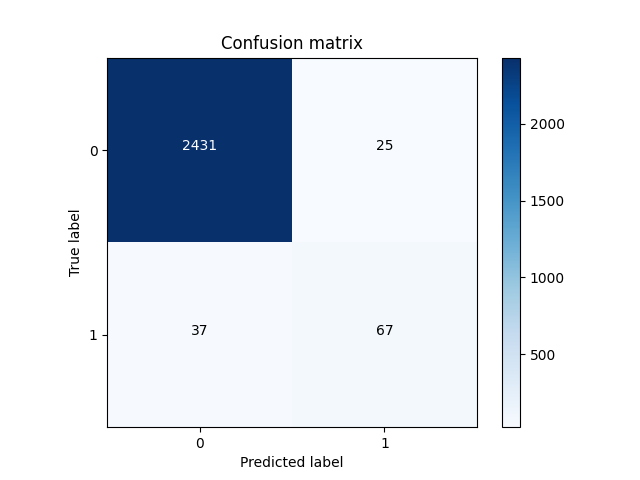
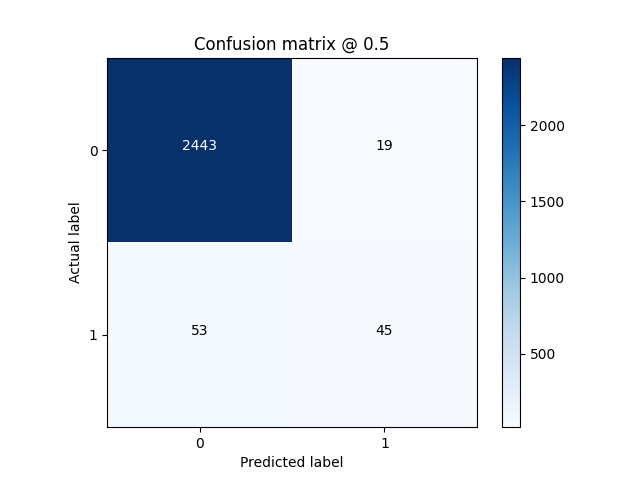
Update model and README.md

diff --git a/api/model/train.py b/api/model/train.py
@@ -8,7 +8,6 @@ import tensorflow as tf
 from keras import Sequential, metrics
 from keras.layers import StringLookup, Dense, Dropout, TextVectorization
 from keras.callbacks import EarlyStopping, History
-from keras.optimizers import Adam
 from sklearn.metrics import multilabel_confusion_matrix
 from typing import Dict
 from .preprocesser import preprocess_data
@@ -21,27 +20,26 @@ METRICS = [
     metrics.FalseNegatives(), 
     metrics.BinaryAccuracy(),
     metrics.Precision(),
-    metrics.Recall(),
+    metrics.Recall()
 ]
 
 def get_model(lookup_layer: StringLookup) -> Sequential:
     # feedforward neural network
     model = Sequential([
-        Dense(150, activation="relu"),
-        Dropout(0.2),
-        Dense(150, activation="relu"),
-        Dropout(0.2),
-        Dense(150, activation="relu"),
-        Dropout(0.2),
+        Dense(100, activation="relu"),
+        Dropout(0.3),
+        Dense(100, activation="relu"),
+        Dropout(0.3),
+        Dense(100, activation="relu"),
+        Dropout(0.3),
         Dense(lookup_layer.vocabulary_size(), activation="sigmoid")
     ])
-    optimizer = Adam(learning_rate=0.001)
-    model.compile(loss="binary_crossentropy", optimizer=optimizer, metrics=METRICS)
+    model.compile(loss="binary_crossentropy", optimizer="adam", metrics=METRICS)
     return model
 
 def fit_model(model: Sequential, class_weights: Dict[int, float], train_dataset: tf.data.Dataset, validation_dataset: tf.data.Dataset) -> History:
     # implement early stopping to reduce overfitting
-    early_stop = EarlyStopping(monitor="loss", patience=5)
+    early_stop = EarlyStopping(monitor="loss", patience=3)
 
     # set class weights to handle class imbalance
     history = model.fit(train_dataset, validation_data=validation_dataset, epochs=Constants.EPOCHS,
@@ -67,40 +65,44 @@ def predict(model: Sequential, dataset: tf.data.Dataset) -> np.ndarray:
     predicted_probailities = (predicted_probailities >= Constants.PREDICTION_THRESHOLD).astype(int)
     return predicted_probailities
 
+def plot_metrics(history: History) -> None:
+    if not os.path.exists("plots"):
+        os.mkdir("plots")
+    
+    PLOT_METRICS = ["binary_accuracy", "precision", "recall", "loss"]
+    for metric in PLOT_METRICS:
+        name = metric.replace("_", " ").capitalize()
+        plt.figure()
+        plt.plot(history.epoch, history.history[metric], label="Training")
+        plt.plot(history.epoch, history.history["val_" + metric], label="Validation")
+        plt.xlabel("Epoch")
+        plt.ylabel(name)
+        plt.title(f"Training and Validation {name}")
+        plt.legend()
+        plt.savefig(f"plots/training_and_validation_{metric}.png")
+        plt.show()
+
 def plot_confusion_matrix(actual_probailities: np.ndarray, predicted_probailities: np.ndarray) -> None:
     # compute confusion matrix for each class seperately, sum up, and plot
     confusion_matrix = multilabel_confusion_matrix(actual_probailities, predicted_probailities)
     confusion_matrix = np.sum(confusion_matrix, axis=0)
 
+    plt.figure()
     plt.imshow(confusion_matrix, cmap=plt.cm.Blues, interpolation="nearest")
     plt.colorbar()
     plt.xlabel("Predicted label")
-    plt.ylabel("True label")
+    plt.ylabel("Actual label")
     plt.xticks([0, 1])
     plt.yticks([0, 1])
     for i in range(2):
         for j in range(2):
             color = "white" if confusion_matrix[i, j] > confusion_matrix.max() / 2 else "black"
             plt.text(j, i, format(confusion_matrix[i, j]), horizontalalignment="center", color=color)
-    plt.title("Confusion matrix")
+    plt.title(f"Confusion matrix @ {Constants.PREDICTION_THRESHOLD}")
 
     if not os.path.exists("plots"):
         os.mkdir("plots")
     plt.savefig(f"plots/confusion_matrix.png")
-    plt.show()
-
-def plot_history(history: History, metric: str) -> None:
-    plt.plot(history.history[metric], label=metric)
-    plt.plot(history.history["val_" + metric], label="val_" + metric)
-    plt.xlabel("Epochs")
-    plt.ylabel(metric)
-    plt.title(f"Train and Validation {metric} Over Epochs", fontsize=14)
-    plt.legend()
-    plt.grid()
-
-    if not os.path.exists("plots"):
-        os.mkdir("plots")
-    plt.savefig(f"plots/train_validation_{metric}_over_epochs.png")
     plt.show()
 
 if __name__ == "__main__":
@@ -113,9 +115,8 @@ if __name__ == "__main__":
     model = get_model(lookup_layer)
     history = fit_model(model, class_weights, datasets["train"], datasets["validation"])
     save_model(model, text_vectorizer, lookup_layer)
-    evaluate_model(model, datasets["test"])
 
+    evaluate_model(model, datasets["test"])
     predicted_probailities = predict(model, test_text)
-    plot_history(history, "loss")
-    plot_history(history, "binary_accuracy")
+    plot_metrics(history)
     plot_confusion_matrix(test_labels, predicted_probailities)

diff --git a/api/model/preprocesser.py b/api/model/preprocesser.py
@@ -1,25 +1,34 @@
 import re
+import nltk
 import numpy as np
 import pandas as pd
 import tensorflow as tf
 from keras.layers import StringLookup, TextVectorization
 from sklearn.model_selection import train_test_split
 from sklearn.utils import class_weight
+from nltk.corpus import stopwords
 from ast import literal_eval
 from typing import Tuple, Dict
 from .constants import Constants
 
 AUTO = tf.data.AUTOTUNE
+nltk.download("stopwords")
+STOP_WORDS = set(stopwords.words("english"))
 
-def remove_substrings(text: str) -> str:
+def remove_substrings(abstract: str) -> str:
     latex_regex = r"\$.*?\$"
     url_regex = r"(http[s]?://|www\.)\S+"
-    text = re.sub(latex_regex, "", text)
-    text = re.sub(url_regex, "", text)
-    return text
+    abstract = re.sub(latex_regex, "", abstract)
+    abstract = re.sub(url_regex, "", abstract)
+    return abstract
+
+def remove_stop_words(abstract: str) -> str:
+    words = abstract.split()
+    filtered_words = [word for word in words if word.lower() not in STOP_WORDS]
+    return " ".join(filtered_words)
 
 def split_data(data: pd.DataFrame) -> Tuple[pd.DataFrame]:
-    train_df, test_df = train_test_split(data, test_size=0.2, shuffle=True)
+    train_df, test_df = train_test_split(data, test_size=0.3, shuffle=True, random_state=42)
     # generate a random validation dataset from the test dataset
     validation_df = test_df.sample(frac=0.5)
     test_df.drop(validation_df.index, inplace=True)
@@ -48,6 +57,7 @@ def get_tf_dataset(data: pd.DataFrame, lookup_layer: StringLookup) -> tf.data.Da
     return dataset.batch(Constants.BATCH_SIZE).prefetch(AUTO)
 
 def get_text_vectorizer(train_df: pd.DataFrame, train_dataset: tf.data.Dataset) -> TextVectorization:
+    # find the size of unique vocab
     vocab = set()
     train_df["abstracts"].str.lower().str.split().apply(vocab.update)
     vocab_size = len(vocab)
@@ -63,10 +73,13 @@ def preprocess_data(data: pd.DataFrame) -> Tuple[StringLookup, TextVectorization
     data = data[~data["abstracts"].duplicated()]
 
     # convert the labels to lists of strings
-    data["topics"] = data["topics"].apply(lambda x: literal_eval(x))
+    data["topics"] = data["topics"].apply(literal_eval)
 
     # remove LaTex and URL substrings from abstracts
-    data["abstracts"] = data["abstracts"].apply(lambda x: remove_substrings(x))
+    data["abstracts"] = data["abstracts"].apply(remove_substrings)
+    
+    # remove stopwords
+    data["abstracts"] = data["abstracts"].apply(remove_stop_words)
 
     train_df, validation_df, test_df = split_data(data)
     lookup_layer = multi_label_binarization(train_df)

diff --git a/api/model/predict.py b/api/model/predict.py
@@ -4,7 +4,7 @@ import tensorflow as tf
 from keras import models, Sequential
 from keras.layers import StringLookup
 from typing import Tuple, List
-from .preprocesser import remove_substrings
+from .preprocesser import remove_substrings, remove_stop_words
 from .constants import Constants
 
 def load_model() -> Tuple[Sequential, StringLookup]:
@@ -20,9 +20,13 @@ def get_tf_dataset(data: pd.DataFrame) -> tf.data.Dataset:
     return dataset
 
 def predict(model: Sequential, lookup_layer: StringLookup, abstracts: List[str]) -> List[List[str]]:
-    df = pd.DataFrame(abstracts, columns=["abstracts"])
-    df["abstracts"] = df["abstracts"].apply(lambda x: remove_substrings(x))
-    dataset = get_tf_dataset(df)
+    data = pd.DataFrame(abstracts, columns=["abstracts"])
+    # remove LaTex and URL substrings from abstracts
+    data["abstracts"] = data["abstracts"].apply(remove_substrings)
+    
+    # remove stopwords
+    data["abstracts"] = data["abstracts"].apply(remove_stop_words)
+    dataset = get_tf_dataset(data)
 
     predicted_probailities = model.predict(dataset)
     predicted_probailities = (predicted_probailities >= Constants.PREDICTION_THRESHOLD).astype(int)

diff --git a/api/model/analyse_data.py b/api/model/analyse_data.py
@@ -41,8 +41,12 @@ def plot_label_count_distribution(data: pd.DataFrame) -> None:
 if __name__ == "__main__":
     # decompress the data
     with gzip.open("data/training_data.csv", "rt", encoding="utf-8") as file:
-        training_data = pd.read_csv(file)
+        data = pd.read_csv(file)
+
+    # remove duplicates
+    data = data[~data["abstracts"].duplicated()]
+
     # convert the labels to lists of strings
-    training_data["topics"] = training_data["topics"].apply(lambda id: literal_eval(id))
-    show_basic_info(training_data)
-    plot_label_count_distribution(training_data)
+    data["topics"] = data["topics"].apply(literal_eval)
+    show_basic_info(data)
+    plot_label_count_distribution(data)

diff --git a/README.md b/README.md
@@ -7,21 +7,21 @@ The web app features a TypeScript React frontend and Flask backend REST API with
 
 ### Prerequisites
 
-- Python [install](https://www.python.org/)
-- Node.js and npm [install](https://nodejs.org/)
+- Python - [install](https://www.python.org/)
+- Node.js and npm - [install](https://nodejs.org/)
 
 ```bash
-# install Flask REST API dependencies
+# install backend dependencies
 $ cd api && pip install -r requirements.txt
 
-# install NLP model depdendencies
+# install model depdendencies
 $ cd api/model && pip install -r requirements.txt
 
 # install frontend depdendencies
 $ npm install
 ```
 
-Remove the ```.example``` extension from the ```.env.example``` file and replace the MONGODB_USERNAME, MONGODB_PASSWORD, and JWT_KEY values appropriately.
+In the ```/api``` directory, remove the ```.example``` extension from the ```.env.example``` file and replace the variable values.
 
 ### Running the Application
 
@@ -34,7 +34,7 @@ $ cd api/model && python -m scraper
 # 2. train model
 $ cd api/model && python -m train
 
-# 3. start database aggregator
+# 3. aggregate database papers
 $ cd api && python aggregator.py
 
 # 4. start backend server
@@ -56,22 +56,46 @@ $ npm run test
 
 ## Multi-label Text Classification
 
-Since the application aggregates data from multple scholarly sources, a model was needed to standardise topic area classification. Using Keras, a feedforward neural network was trained on >143K research paper abstracts across 39 classification classes. 
+Given that the application aggregates data from multple scholarly sources, a model was needed to standardise topic area classification. Using Keras, a feedforward neural network was trained on >143K research paper abstracts across 39 classes. Unseen abstracts can be passed into the model, and it will predict one or more topic area labels for each.
 
 ### Dataset Analysis
 
+The training dataset is generated and compressed by running the multi-threaded ```scraper.py``` program, which aggregates research paper abstracts and their respective topic area tags from arXiv.org
+
 ![Distribution of Individual Class Counts](api/model/plots/individual_class_counts.png)
 
-The plot above illustrates class imbalance amongst the dataset, meaning classes such as LG (machine learning) are over represented. To handle this during model fitting, class weights were computed and then integrated during training.
+The plot above illustrates class imbalance in the dataset, meaning classes such as LG (machine learning) are overrepresented. To handle this, class weights were computed based off their frequencies and then integrated during training, which gives more importance to underrepresented classes.
 
 ### Model Architecture
 
-The model is a sequential neural network starting with a text vectorization layer that converts input text into numerical vectors. This is followed by 3 hidden dense layers, each with 150 neurons and the ReLU activation function, which introduces non-linearity to help identify patterns in the text data. Between each of these is a dropout layer with a rate of 0.2 to mitigate overfitting. The final layer has the same number of neurons as the number of classes and uses the sigmoid activation function, which estimates probabilities for each label.
+The model is a sequential neural network starting with a text vectorization preprocessing layer that standardises text (lowercase + punctuation stripping), splits the result into substrings and applies tokenization and indexing before converting the text into a numerical vector.
 
-The model is compiled using a binary crossentropy loss function, which measures dissimilarity between predicted probabilities and the true labels. The Adam optimizer determines how the model's weights are updated during training in order to minimize the loss function.
+This is followed by 3 hidden dense layers, each with 100 neurons and the ReLU activation function, which introduces non-linearity to help identify patterns in the text data. Between each of these is a dropout layer with a rate of 0.3 to mitigate overfitting by randomly setting output features of the layer to 0. The final layer has the same number of neurons as the number of classes and uses the sigmoid activation function, which estimates probabilities for each label.
 
-### Training Evaluation
+The model is compiled using the binary crossentropy loss function, which measures dissimilarity between the predicted probabilities and true labels. The Adam optimiser determines how the model's weights are updated during training in order to minimise the loss function. The output of the neural network is a probability distribution over all labels.
+
+### Model Evaluation
+
+The dataset was split into 70% training data, 15% validation data and 15% testing data.
+The following metrics were monitored during training:
+- Binary Accuracy: percentage of correct predictions over all predictions, where each label is treated as an independent binary classification problem.
+- Precision: percentage of correct positive predictions over all positive predictions. Low precision indicates a high number of false positives.
+- Recall: percentage of correct positive predictions over all actual positive data points. Low recall indicates a high number of false negatives.
+
+![Training and Validation Binary Accuracy](api/model/plots/training_and_validation_binary_accuracy.png)
+
+The graph above shows a relatively high binary accuracy for both the training and validation datasets. However, since the dataset is imbalanced binary accuracy may not be a suitable metric. The binary accuracy on the evaluated test dataset was 97%.
 
 ![Confusion Matrix](api/model/plots/confusion_matrix.png)
 
-Confusion matrices visualise how many labels were correctly and incorrectly predicted. The above matrix is the aggregated confusion matrix for each class of a test dataset. It shows few false negatives (25) and few false positives (37).
+The above matrix is formatted as follows:
+[True Negatives (TN), False Positives (FP)]
+[False Negatives (FN), True Positives (TP)]
+
+A confusion matrix represents the model's performance on unseen data. It visualises how many labels were correctly and incorrectly predicted. The above plot is the aggregated confusion matrix for each class, it uses a threshold of 0.5 on the probability distribution and is based off the test dataset. It has more TP than FP and more TN than FN, which is generally considered good peformance.
+
+Summary metrics obtained on the test dataset include:
+- Binary Accuracy: 97%
+- Precision: 80%
+- Recall: 47%
+- Loss: 9%
